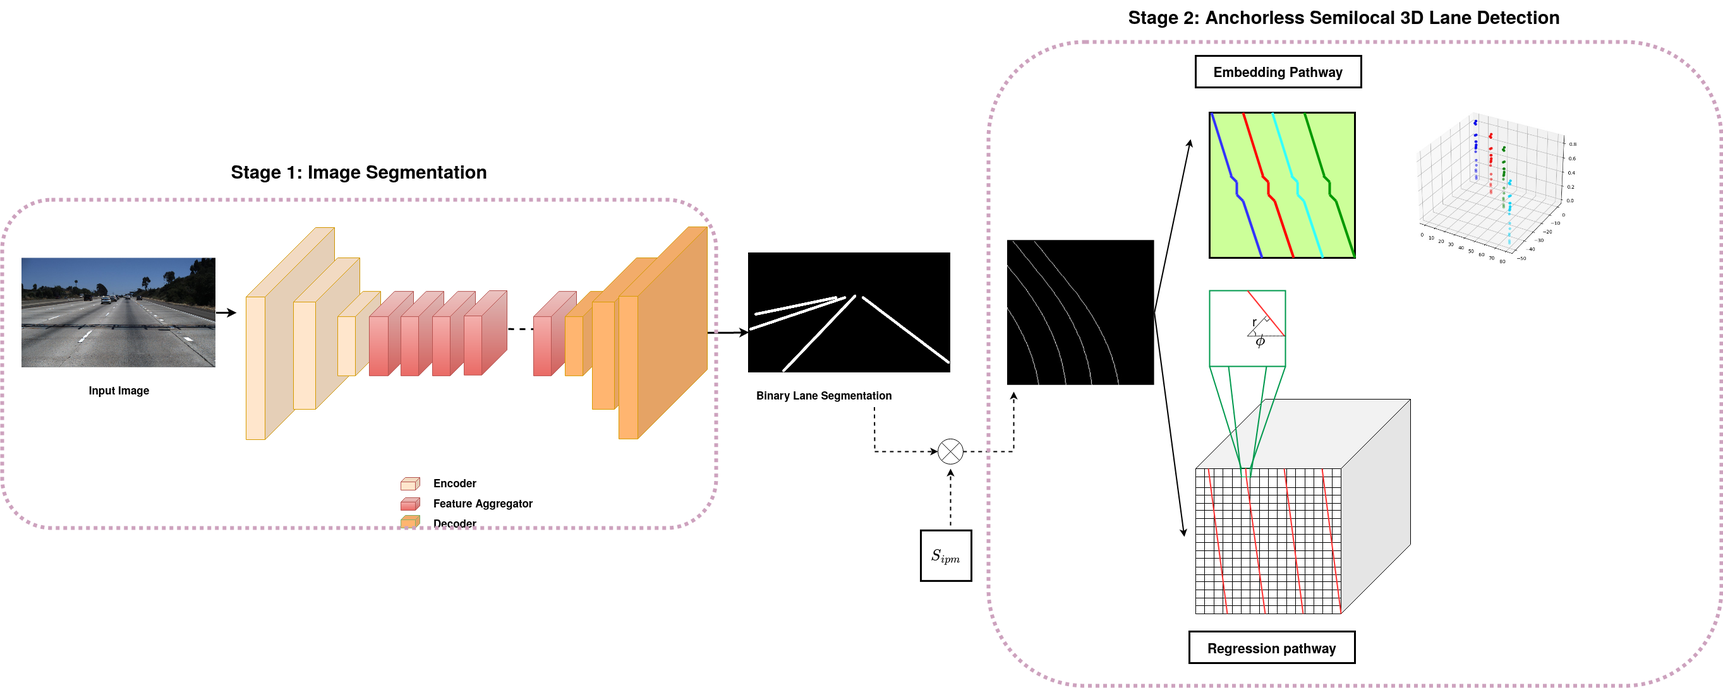
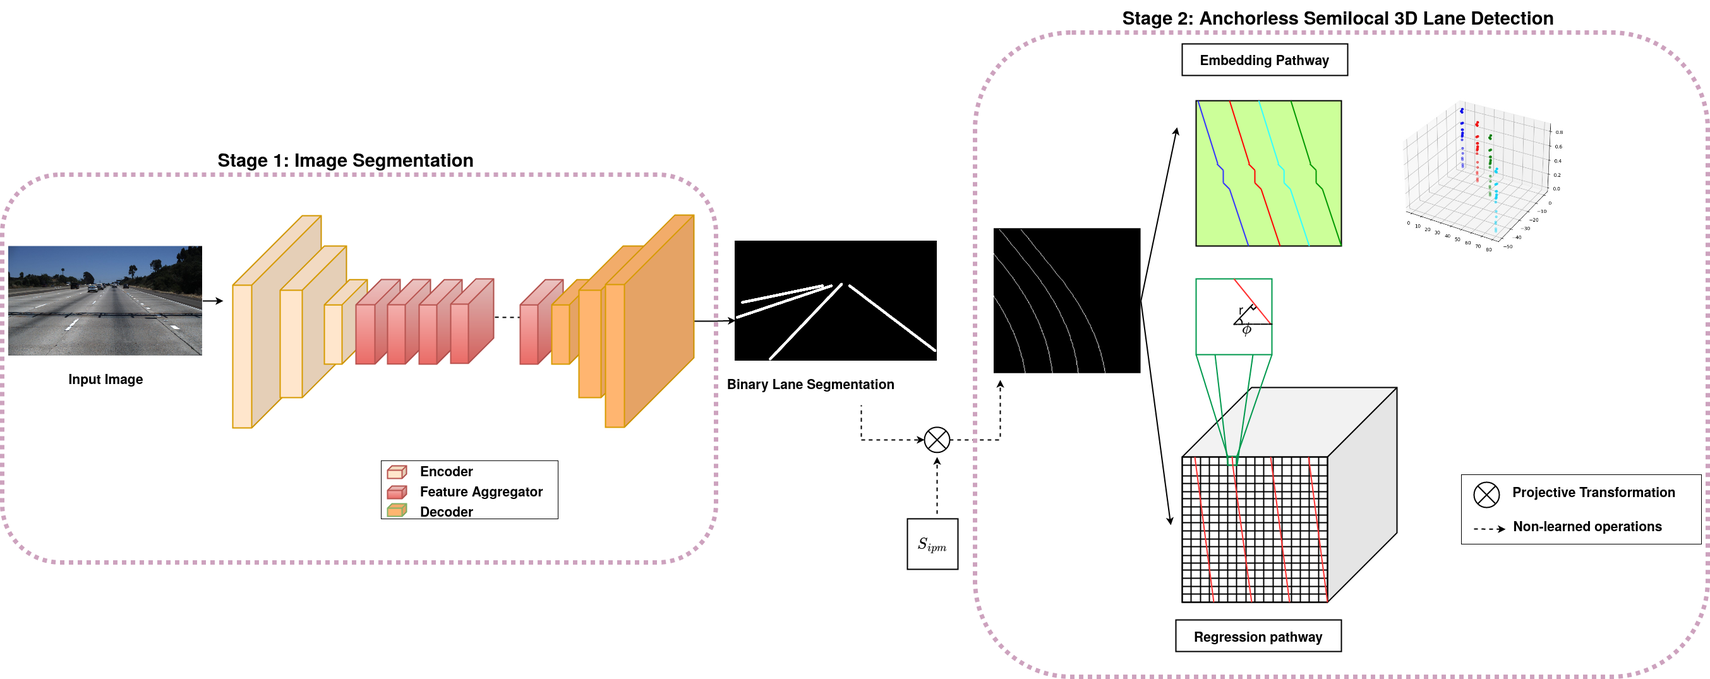
proposed 3D lane arch- methodology

diff --git a/chapters/ch03_related_work.tex b/chapters/ch03_related_work.tex
@@ -41,9 +41,9 @@ Even after the vast research in the field of end-to-end autonomous driving we ar
     
     By definition both auxiliary learning and multitask learning is same, in both the cases you are learning for multiple tasks by sharing the feature representation thus utilizing the training signals from related tasks, the only difference is that in auxiliary learning the other tasks are non operational with respect to the main task. The auxiliary task is general trained on more annotated data to act as a regularizer for the main task. 
     
-    In Autonomous driving, multi-task learning or auxiliary learning plays a very important role. For example if we talk about a scenario where a car is driving on a busy street. So, for an autonomous car to make decision in this scenario we need to learn for tasks like road sign detection, object in closest path, curbs, moving objects, traffic lights and more. Some of these tasks share some correlation and to exploit that we need to learn them together. Multitask learning or auxiliary learning faces a lot of challenges and difficulties like we need to select a unified feature extractor for all the tasks \cite{DBLP:journals/corr/abs-2108-11353}, choosing the appropriate achitecture for a multitask system followed up by which parts of the network should be share by the which tasks \cite {Liu_2020_ACCV} \cite{ruder2018latent} \cite{DBLP:journals/corr/abs-1904-02920}, which tasks needs to chosen for multitask learning \cite{DBLP:journals/corr/abs-2110-07301} \cite{DBLP:journals/corr/abs-1904-04153}, how to jointly train multitasks such training signals from other tasks helps main task \cite{DBLP:journals/corr/abs-1903-12117} \cite{DBLP:journals/corr/abs-2007-06889} \cite{DBLP:journals/corr/abs-2001-06782} \cite{Guo_2018_ECCV}, balancing the losses for optimizing various tasks such that it can enhance the efficiency of the main task \cite{DBLP:journals/corr/abs-1904-08492} \cite{pmlr-v80-chen18a} \cite{du2020adapting}. So all of these challenges are in itself a separate area of research in machine learning. 
+    In Autonomous driving, multi-task learning or auxiliary learning plays a very important role. For example if we talk about a scenario where a car is driving on a busy street. So, for an autonomous car to make decision in this scenario we need to learn for tasks like road sign detection, object in closest path, curbs, moving objects, traffic lights and more. Some of these tasks share some correlation and to exploit that we need to learn them together. Multitask learning or auxiliary learning faces a lot of challenges and difficulties like we need to select a unified feature extractor for all the tasks \cite{DBLP:journals/corr/abs-2108-11353}, choosing the appropriate architecture for a multitask system followed up by which parts of the network should be share by the which tasks \cite {Liu_2020_ACCV} \cite{ruder2018latent} \cite{DBLP:journals/corr/abs-1904-02920}, which tasks needs to chosen for multitask learning \cite{DBLP:journals/corr/abs-2110-07301} \cite{DBLP:journals/corr/abs-1904-04153}, how to jointly train multitasks such training signals from other tasks helps main task \cite{DBLP:journals/corr/abs-1903-12117} \cite{DBLP:journals/corr/abs-2007-06889} \cite{DBLP:journals/corr/abs-2001-06782} \cite{Guo_2018_ECCV}, balancing the losses for optimizing various tasks such that it can enhance the efficiency of the main task \cite{DBLP:journals/corr/abs-1904-08492} \cite{pmlr-v80-chen18a} \cite{du2020adapting}. So all of these challenges are in itself a separate area of research in machine learning. 
     
-    In \cite{DBLP:journals/corr/abs-1805-06334} semantic segmentation is carried out where as prediction of time and weather is used as auxiliary tasks. \cite{teichmann2018multinet}, \cite{7785137} conducted joint learning of semantic segmentation and depth estimation as both task share some meaningful information, have shown that learning depth estimation has auxiliary task has leads to increase in performance. \cite{yang2018endtoend} jointly learned for prediction of driving commands in terms of steering angle and speed in end-to-end fashion. \cite{Wang2019EndtoEndSU} explored to predict the driving commands with object detection and semantic segmentation as auxiliary tasks. \cite{9090850} proposed a lightweight based network using lidar as main sensor to predict the occlusion free road segmentation, road ground height estimation and road topology recognition with keeping later two as auxiliary tasks. \cite{teichmann2018multinet} jointly learned classification, detection and semantic segmentation of scene objects for semantic reasoning using a unified feature extractor and task specific decoders. In \cite{9523129} driving commands are predicted along with monocular depth estimation, semantic segmentation and traffic light state as auxiliary tasks. 
+    In \cite{DBLP:journals/corr/abs-1805-06334} semantic segmentation is carried out where as prediction of time and weather is used as auxiliary tasks. \cite{teichmann2018multinet}, \cite{7785137} conducted joint learning of semantic segmentation and depth estimation as both task share some meaningful information, have shown that learning depth estimation has auxiliary task has leads to increase in performance. \cite{yang2018endtoend} jointly learned for prediction of driving commands in terms of steering angle and speed in end-to-end fashion. \cite{Wang2019EndtoEndSU} explored to predict the driving commands with object detection and semantic segmentation as auxiliary tasks. \cite{9090850} proposed a lightweight based network using Lidar as main sensor to predict the occlusion free road segmentation, road ground height estimation and road topology recognition with keeping later two as auxiliary tasks. \cite{teichmann2018multinet} jointly learned classification, detection and semantic segmentation of scene objects for semantic reasoning using a unified feature extractor and task specific decoders. In \cite{9523129} driving commands are predicted along with monocular depth estimation, semantic segmentation and traffic light state as auxiliary tasks. 
     
     Along with inducing inductive bias and inducing task related information which is missing in the main task multi-task learning also helps in creating interpret-able solutions. Any failure in the main task can be validated via the output from sub-tasks and vice versa. So multitask learning is a main component of end-to-end autonomous driving or autonomous driving.  
 
@@ -54,7 +54,7 @@ Even after the vast research in the field of end-to-end autonomous driving we ar
         \subsection{Monocular 2D Lane Detection}
         Traditionally lane detection was carried out using hand crafted features. Those approaches have many drawbacks like lack of robustness, only applicable in easy driving scenarios. Recently deep learning techniques has been employed to remove the reliance on the hand crafted features and to extract those features in an end-to-end fashion. 2D lane detection requires to capture rich context from the scene, as in most of the scenarios we need to face challenging situations where there are no lane markings, lanes markings are occluded by the objects or extreme lightning and weather conditions. Thus thus we need to counter the biggest problem of missing visual cues in the scene, maintaining the real time applicability of the solution.
         
-        The task of lane detection via deep learning is generally considered a dense prediction task of semantic segmentation, where each pixel in an image define a label whether it is a lane or not. Semantic segmentation in general is considered as dense prediction task, so to facilitate that we need to increase the effective receptive field. To Support that \cite{DBLP:journals/corr/abs-1712-06080} proppsed a feature enhancement module which can be used flexibly after the initial feature encoding in any model and shown to be faster than Deep Lab V3 \cite{DBLP:journals/corr/ChenPSA17} and lesser number of parameters. Following the previous approach RESA \cite{DBLP:journals/corr/abs-2008-13719} proposed a better feature enhancement module and at the stake of less computational cost, resulting in 10 times faster than the predecessor. 
+        The task of lane detection via deep learning is generally considered a dense prediction task of semantic segmentation, where each pixel in an image define a label whether it is a lane or not. Semantic segmentation in general is considered as dense prediction task, so to facilitate that we need to increase the effective receptive field. To Support that \cite{DBLP:journals/corr/abs-1712-06080} proposed a feature enhancement module which can be used flexibly after the initial feature encoding in any model and shown to be faster than Deep Lab V3 \cite{DBLP:journals/corr/ChenPSA17} and lesser number of parameters. Following the previous approach RESA \cite{DBLP:journals/corr/abs-2008-13719} proposed a better feature enhancement module and at the stake of less computational cost, resulting in 10 times faster than the predecessor. 
         
         As the task of semantic segmentation involves around predicting the accurate class of the pixel, approaches like \cite{https://doi.org/10.48550/arxiv.2010.12035}, \cite{inbook} have shown that predicting a semantic mask does not solve the problem of defining shapes of the lane lines, therefore anchor based and row-wise detection based 2d lane detection methods were proposed.
         
@@ -94,7 +94,7 @@ The most basic way to lift the 2d lane lines to 3D is using Inverse perspective 
     \end{figure}
 
 
-The most seminal paper in the field of 3D lane detection is \cite{DBLP:journals/corr/abs-1811-10203} like \cite{DBLP:journals/corr/abs-1802-05591} they have not taken any flat ground assumption, the architecture in the approach is basically divided into two pathways one for predicting the transformation from image plane to 3D road plane. This pathway predicts camera height and pitch from the road which basically determines the transformation. The other pathway is responsible for converting monocular image from image space to Birds Eye VIew (BEV) space, where they have employed an anchor based lane prediction head. The main limitation of this approach is that it can handle only scenarios with parallel lane-lines and fail at the scenarios when lane-lines are perpendicular to the ego vehicle. 
+The most seminal paper in the field of 3D lane detection is \cite{DBLP:journals/corr/abs-1811-10203} like \cite{DBLP:journals/corr/abs-1802-05591} they have not taken any flat ground assumption, the architecture in the approach is basically divided into two pathways one for predicting the transformation from image plane to 3D road plane. This pathway predicts camera height and pitch from the road which basically determines the transformation. The other pathway is responsible for converting monocular image from image space to Bird-Eye-View (BEV) space, where they have employed an anchor based lane prediction head. The main limitation of this approach is that it can handle only scenarios with parallel lane-lines and fail at the scenarios when lane-lines are perpendicular to the ego vehicle. 
 
 \begin{figure}[h]
     \centering
@@ -137,7 +137,7 @@ Following the previous work \cite{9506296} proposed a dual attention pipeline fo
     \caption{Dual attention mechanism  proposed by  \cite{9506296}}
     \end{figure}
 
-Following the footsteps of \cite{DBLP:journals/corr/abs-2011-01535}, \cite{yan2022once} proposed a lane detector where lanes are not represented as anchors. Instead of using BEV for encoding 3d lane information the scene their method relies on the 2D camera image and its intrinsics to detect the 3D lane line points. Utilizing the power of anchor-less based 3d lane detectors that they are able to detect different lane topology, they have used a dual branched pipeline where one branch is used for detecting binary lanes from the encoded features from a input image. For the backbone they have used the SegFormer \cite{DBLP:journals/corr/abs-2105-15203}. The second paths regresses directly the 2d coordinates of the lane points along with the depth associated with them. The predicted coordinates are in camera image plane which can be taken to real world via using camera geometry. For generating the ground-truth they have proposed an automatic annotation pipeline using lidar and camera as major sensors.
+Following the footsteps of \cite{DBLP:journals/corr/abs-2011-01535}, \cite{yan2022once} proposed a lane detector where lanes are not represented as anchors. Instead of using BEV for encoding 3d lane information the scene their method relies on the 2D camera image and its intrinsics to detect the 3D lane line points. Utilizing the power of anchor-less based 3d lane detectors that they are able to detect different lane topology, they have used a dual branched pipeline where one branch is used for detecting binary lanes from the encoded features from a input image. For the backbone they have used the SegFormer \cite{DBLP:journals/corr/abs-2105-15203}. The second paths regresses directly the 2d coordinates of the lane points along with the depth associated with them. The predicted coordinates are in camera image plane which can be taken to real world via using camera geometry. For generating the ground-truth they have proposed an automatic annotation pipeline using Lidar and camera as major sensors.
 
 \begin{figure}[h]
     \centering
@@ -151,13 +151,13 @@ In this work we propose to take the best of the both the worlds and counter the 
 This section introduces the reader to popular 2D and 3D public lane detection datasets used for this work and by the research conducted in the respective field. 
 
 \subsubsection{2D Lane Detection Datasets}
-As a lot of work has been conducted in the field of 2d lane detection therefore a lot of 2d lane detection data-sets exits. But in this work we will discuss only the prominent ones which are generally used by the 3D lane detection approaches for training the intermediate part of their pipline. \cite{Tusimple} TuSimple is one of the most basic datasets used by the 2d lane detection approaches to validate their pipeline. The dataset consists of driving scenarios on highway with stable lightning conditions. Where as CULane \cite{pan2018SCNN} is quite challenging dataset with varying driving conditions. The dataset consists of 55 hours of driving in crowded streets of beijing with scenarios ranging from no lane marking, crowded streets, sun glares, night, intersections, curves and more. The only drawback of this dataset is that it does not contain scenes with varying weather conditions.
+As a lot of work has been conducted in the field of 2d lane detection therefore a lot of 2d lane detection data-sets exits. But in this work we will discuss only the prominent ones which are generally used by the 3D lane detection approaches for training the intermediate part of their pipline. \cite{Tusimple} TuSimple is one of the most basic datasets used by the 2d lane detection approaches to validate their pipeline. The dataset consists of driving scenarios on highway with stable lightning conditions. Where as CULane \cite{pan2018SCNN} is quite challenging dataset with varying driving conditions. The dataset consists of 55 hours of driving in crowded streets of Beijing with scenarios ranging from no lane marking, crowded streets, sun glares, night, intersections, curves and more. The only drawback of this dataset is that it does not contain scenes with varying weather conditions.
 
 \subsubsection{3D Lane Detection Datasets}
-Apollo Synthetic datset\cite{guo2020gen} is one of the first and largest public 3d lane detection dataset. As the name suggests there exists annotations for 3d lane line points in simulation. The dataset is rendered from the real world maps with three different driving terrains like highway, urban and residential with different lightning conditions depending on the day time. The dataset is composed of real world 3D lane line points, camera pose in terms of camera height and pitch, camera instrinsics, RGB image, dense depth image and semantically segmented image of the scene.
+Apollo Synthetic datset\cite{guo2020gen} is one of the first and largest public 3d lane detection dataset. As the name suggests there exists annotations for 3d lane line points in simulation. The dataset is rendered from the real world maps with three different driving terrains like highway, urban and residential with different lightning conditions depending on the day time. The dataset is composed of real world 3D lane line points, camera pose in terms of camera height and pitch, camera intrinsics, RGB image, dense depth image and semantically segmented image of the scene.
 
-OpenLane \cite{chen2022persformer} is one of the first real world 3d lane datasets. The dataset is basically generated from the Waymo open datset \cite{Sun_2020_CVPR}, where they have provided along with input images of the scene, the closest in path object infromation and 3D lane annotations. In addition to all the preliminary driving scenarios the dataset also contains dirving scenarios with complex topologies like intersections and roundabouts. Data also contains annotations for the opposite lanes if there exist no curbs in the middle of the lane. 
+OpenLane \cite{chen2022persformer} is one of the first real world 3d lane datasets. The dataset is basically generated from the Waymo open datset \cite{Sun_2020_CVPR}, where they have provided along with input images of the scene, the closest in path object information and 3D lane annotations. In addition to all the preliminary driving scenarios the dataset also contains diving scenarios with complex topologies like intersections and roundabouts. Data also contains annotations for the opposite lanes if there exist no curbs in the middle of the lane. 
 
-ONCE-3D Lanes \cite{yan2022once} is also a real world 3D lane detection dataset, the dataset is constructed from ONCE\cite{mao2021one}. The dataset consits of 3D annotations of lane line points, RGB image and the camera parameters of every frame in a driving scenarios. This dataset is collected in different geographical locations in China like highways, bridges, suburbs, tunnels with different weather and lightning conditions.
+ONCE-3D Lanes \cite{yan2022once} is also a real world 3D lane detection dataset, the dataset is constructed from ONCE\cite{mao2021one}. The dataset consists of 3D annotations of lane line points, RGB image and the camera parameters of every frame in a driving scenarios. This dataset is collected in different geographical locations in China like highways, bridges, suburbs, tunnels with different weather and lightning conditions.
 
 \end{document}

diff --git a/chapters/ch02_theoretical_background.tex b/chapters/ch02_theoretical_background.tex
@@ -23,7 +23,7 @@ $\left(\begin{array}{c}X \\ Y \\ Z \\ 1 \end{array}\right) \rightarrow \left(\be
 
 \end{center}
     
-The above equation can be represented as  $X^{‘} = PX $. Where X is the real world point represented in the homogenous coordinates as $(X, Y, Z, 1)^{T}$ and P is a $3x4$ homogeneous matrix called camera projection matrix. P in this case can be rewritten as $diag(f,f,1) [I|0]$, where diag(f,f,1) is a $3x3$ matrix and $[I|0]$ is a zero column vector. 
+The above equation can be represented as  $X^{‘} = PX $. Where X is the real world point represented in the homogeneous coordinates as $(X, Y, Z, 1)^{T}$ and P is a $3x4$ homogeneous matrix called camera projection matrix. P in this case can be rewritten as $diag(f,f,1) [I|0]$, where diag(f,f,1) is a $3x3$ matrix and $[I|0]$ is a zero column vector. 
 Generally the origin of coordinated is not at the optical center, there exists some offset. So the mapping in that case will change: 
 \begin{center}
 $(X,Y,Z)^{T} \rightarrow (fX/Z + p_{x}, fY/Z + p_{y})^{T}$
@@ -47,7 +47,7 @@ And $ K =  \begin{bmatrix}f & &p_{x} \\  &f &p_{y}  \\   & &1    \end{bmatrix}$
 $K =  \begin{bmatrix} \alpha_{x} & s &c_{x} \\  0 & \alpha_{y} & c_{y}  \\  0  &0 &1 \end{bmatrix}$
     \end{center}
     
-    So we can summarize this mapping from real world to camera plane, first the real world coordinates are transferred to camera coordinate frame via extrinsic matrix and the resulting points in camera coordinate frames are projected to image plane using camera matrix or instrinsic matrix. 
+    So we can summarize this mapping from real world to camera plane, first the real world coordinates are transferred to camera coordinate frame via extrinsic matrix and the resulting points in camera coordinate frames are projected to image plane using camera matrix or intrinsic matrix. 
         \begin{figure}[h]
     \centering
     \includegraphics[width=8cm, height =4cm]{images/extrinsic_intrinsic.png}
@@ -59,7 +59,7 @@ $K =  \begin{bmatrix} \alpha_{x} & s &c_{x} \\  0 & \alpha_{y} & c_{y}  \\  0  &
     \section{Inverse Perspective Mapping (IPM)}
      In computer vision inverse perspective transformation can be seen as a scenario where we obtain birds-eye-view image of the scene using front-facing camera image. To understand how the inverse perspective mapping we need to build some basic concepts about camera geometry which we discussed in the last section, homography and 2D perspective transformation. In autonomous driving IPM can be seen as an alternative way to feed the network with extra information about scene and it is explored in tasks like lane detection, BEV segmentation, path planning and more. 
      
-     By definition homography is the way we can transform one projective plane to another plane using a transformation matrix called \textbf{H} and in this work we have used homography based IPM to take the front facing camera image to BEV. These transformation generally comes under the category of perspective transformation. Popularly there exists two types of transformations in projective geometry called as affine and perspective transformation. Example of affine transformation are translation, rotation, dilation. Affine transformations generally maps lines to lines, points to points and prallell lines stay parallel. Where as in the case of perspective transformation can hold only geometrical properties like will remain line and it retains col-linearity of points. Under perspective transformation two parallel lines can not stay parallel and they generally meet at a point at infinity which is called as vanishing point. The pin hole camera model that we have discussed above follows the principal of perspecitve transformation of a real world point to the camera image plane and the camera matrix that we have discussed is basically a homography matrix. Generally this camera matrix is obtained via association of 4 or more same points in the multiple images taken from same camera and this task is called camera calibration. 
+     By definition homography is the way we can transform one projective plane to another plane using a transformation matrix called \textbf{H} and in this work we have used homography based IPM to take the front facing camera image to BEV. These transformation generally comes under the category of perspective transformation. Popularly there exists two types of transformations in projective geometry called as affine and perspective transformation. Example of affine transformation are translation, rotation, dilation. Affine transformations generally maps lines to lines, points to points and parallel lines stay parallel. Where as in the case of perspective transformation can hold only geometrical properties like will remain line and it retains col-linearity of points. Under perspective transformation two parallel lines can not stay parallel and they generally meet at a point at infinity which is called as vanishing point. The pin hole camera model that we have discussed above follows the principal of perspective transformation of a real world point to the camera image plane and the camera matrix that we have discussed is basically a homography matrix. Generally this camera matrix is obtained via association of 4 or more same points in the multiple images taken from same camera and this task is called camera calibration. 
      
             \begin{figure}[h]
     \centering
@@ -72,7 +72,7 @@ $K =  \begin{bmatrix} \alpha_{x} & s &c_{x} \\  0 & \alpha_{y} & c_{y}  \\  0  &
      \textbf{Step: A Define a top view region \newline} 
      First step for IPM is to define a top view region and we want this plane to be consistent with the moving vehicle. The origin of top view region plane is at the top left corner. Generally we start with deciding the width and height of this plane this defining the resolution per pixel. 
      
-     Let $(ipm_{width}, ipm_{height} = 256, 416)$ and top view region edge points to be $[-10, 103], [10, 103], [-10, 3], [10, 3]$. Similary the IPM boundry points can be represented as $[0, 0],
+     Let $(ipm_{width}, ipm_{height} = 256, 416)$ and top view region edge points to be $[-10, 103], [10, 103], [-10, 3], [10, 3]$. Similarly the IPM boundry points can be represented as $[0, 0],
                                                               [ipm_{width}, 0],
                                                               [0, ipm_{height}-1],
                                                               [ipm_{width}, ipm_{height}]$
@@ -127,7 +127,7 @@ $K =  \begin{bmatrix} \alpha_{x} & s &c_{x} \\  0 & \alpha_{y} & c_{y}  \\  0  &
     
     The Hough transform is a feature extraction technique used in image analysis, computer vision, and digital image processing. The purpose of the technique is to find imperfect instances of objects within a certain class of shapes by a voting procedure. \footnote{\url{https://en.wikipedia.org/wiki/Hough_transform}}
     
-    Generally Hough transform is used for detecting lines in an image but it is also applicable to detecting circles and ellipsoidal curves in an image. Hough transform is applied on images after edge detection is performed on it. Edge detection is a technique which identifies boundaries or edges of certain objects in the image on the basis of change in brightness across the pixels. Let's assume we are trying to find lines in an image, in that sense edges are sequence of pixels with certain slope and intercepts. To detect lines in this image we need to loop through all the pixels with same intercept and slope, this is where Hough transforms comes handy. In simple words Hough transform helps to find lines by giving weightage to the pixels that are already in a line. 
+    Generally Hough transform is used for detecting lines in an image but it is also applicable to detecting circles and ellipsoidal curves in an image. Hough transform is applied on images after edge detection is performed on it. Edge detection is a technique which identifies boundaries or edges of certain objects in the image on the basis of change in brightness across the pixels. Let's assume we are trying to find lines in an image, in that sense edges are sequence of pixels with certain slope and intercepts. To detect lines in this image we need to loop through all the pixels with same intercept and slope, this is where Hough transforms comes handy. In simple words Hough transform helps to find lines by giving weight-age to the pixels that are already in a line. 
     
     Before indulging into the workings of the Hough transform, we need to understand the basic idea how the Hough transform works. A line can be represented by minimal two points and it has an intercept and a slope. Similarly a line can also be represented by a single point in mc space.
     
@@ -137,7 +137,7 @@ $K =  \begin{bmatrix} \alpha_{x} & s &c_{x} \\  0 & \alpha_{y} & c_{y}  \\  0  &
     \caption{Representation of a line}
     \end{figure}
     
-    Similarly we can say that a point in cartesian space can be represented as infinite lines in mc space as infinite lines can pass from a point in cartesian space. So, Hough transform does the same converting points in cartesian space to lines in mc space. Therefore for an edge image, where the pixels are non black we can draw lines in mc space. Some lines will intersect at a particular point and that intersection point is this slope and intercept of those lines. 
+    Similarly we can say that a point in Cartesian space can be represented as infinite lines in mc space as infinite lines can pass from a point in Cartesian space. So, Hough transform does the same converting points in Cartesian space to lines in mc space. Therefore for an edge image, where the pixels are non black we can draw lines in mc space. Some lines will intersect at a particular point and that intersection point is this slope and intercept of those lines. 
     
                     \begin{figure}[h]
     \centering
@@ -145,7 +145,7 @@ $K =  \begin{bmatrix} \alpha_{x} & s &c_{x} \\  0 & \alpha_{y} & c_{y}  \\  0  &
     \caption{Representation of a point}
     \end{figure}
     
-    From the pixels points to line in mc space, when more than one lines intersects in mc space it means that those pixels belong to the same line in cartesian space and that line's parameter is represented by the intersecting point. 
+    From the pixels points to line in mc space, when more than one lines intersects in mc space it means that those pixels belong to the same line in Cartesian space and that line's parameter is represented by the intersecting point. 
     
                  \begin{figure}[h]
     \centering
@@ -217,7 +217,7 @@ $K =  \begin{bmatrix} \alpha_{x} & s &c_{x} \\  0 & \alpha_{y} & c_{y}  \\  0  &
       \begin{figure}[h]
     \centering
     \includegraphics[width=10cm, height =2cm]{images/cnn_case3.png}
-    \caption{$3x3$ kenel convolves over $5x5$ input with $1x1$ padding and unit strides \cite{https://doi.org/10.48550/arxiv.1603.07285}}
+    \caption{$3x3$ kernel convolves over $5x5$ input with $1x1$ padding and unit strides \cite{https://doi.org/10.48550/arxiv.1603.07285}}
     \end{figure}
     
     
@@ -259,15 +259,15 @@ $K =  \begin{bmatrix} \alpha_{x} & s &c_{x} \\  0 & \alpha_{y} & c_{y}  \\  0  &
    \end{center}
     
 
-    \section{Scene Understaing via Semantic Segmentation}
+    \section{Scene Understating via Semantic Segmentation}
     In this section we will briefly introduce the task of semantic segmentation with respect to the deep learning side of the problem and the role it plays in scene understanding in autonomous driving. Semantic segmentation is a dense prediction task where we predict label for each pixel in the image, unlike classification where we assign one label for the whole image.
     
-    In simple words semantic segmentaion performs three steps: \newline
+    In simple words semantic segmentation performs three steps: \newline
     1. Classification : classify an object in the image  \newline
     2. Localization : find the location of the object in the image \newline
     3. Segmentation : divide the pixels into groups and obtaining a mask around those pixels groups 
     
-     When CNN's are used for object recognition task they decrease the size of the feature maps from initial layer to deeper layers and semantic segmentation is a dense prediction task, means the spatial size of the output should be same as the input, it makes this task a little bit challenging. In most of the cases direct upsampling of the mid level feature maps leads to coarse results and thus to obtain fine results we need to increase the effective receptive field which is generally done via artous convolutions which enhance the receptive field. 
+     When CNN's are used for object recognition task they decrease the size of the feature maps from initial layer to deeper layers and semantic segmentation is a dense prediction task, means the spatial size of the output should be same as the input, it makes this task a little bit challenging. In most of the cases direct up-sampling of the mid level feature maps leads to coarse results and thus to obtain fine results we need to increase the effective receptive field which is generally done via artous convolutions which enhance the receptive field. 
      
      There exists three variants segmentation: \newline
      1. Semantic Segmentation \newline

diff --git a/chapters/ch04_3dlanedetection.tex b/chapters/ch04_3dlanedetection.tex
@@ -15,7 +15,7 @@
     \caption{2D Binary Lane segmentation Pipeline}
     \end{figure}
         
-        Figure 4.4 represents the pseudo architecture for the 2D binary lane detection module. This is an auto-encoder based pipeline where we have used \ResNet{DBLP:journals/corr/HeZRS15} based network for initial feature encoding and later utilizing the feature aggregation modules proposed by SCNN\cite{pan2018SCNN} and RESA\cite{DBLP:journals/corr/abs-2008-13719}. In the end we have experimented with two types of decoders for upsampling the extracted features as it is a dense prediction task we need the output to be of the same spatial size as input. Initially we used the a simple decoder propsed by \SCNN{pan2018SCNN} which uses bi-linear interpolation to upsample the feature maps, later we experimented with the Bilateral Upsampling Decoder (BUSD) proposed by RESA\cite{DBLP:journals/corr/abs-2008-13719}. So we trained our 2d binary lane segmentation pipeline using mix and match of the above mentioned modules. 
+        Figure 4.4 represents the pseudo architecture for the 2D binary lane detection module. This is an auto-encoder based pipeline where we have used \ResNet{DBLP:journals/corr/HeZRS15} based network for initial feature encoding and later utilizing the feature aggregation modules proposed by SCNN\cite{pan2018SCNN} and RESA\cite{DBLP:journals/corr/abs-2008-13719}. In the end we have experimented with two types of decoders for upsampling the extracted features as it is a dense prediction task we need the output to be of the same spatial size as input. Initially we used the a simple decoder proposed by \SCNN{pan2018SCNN} which uses bi-linear interpolation to upsample the feature maps, later we experimented with the Bilateral Upsampling Decoder (BUSD) proposed by RESA\cite{DBLP:journals/corr/abs-2008-13719}. So we trained our 2d binary lane segmentation pipeline using mix and match of the above mentioned modules. 
         
         
         \subsection{Datasets Used}
@@ -90,25 +90,25 @@
     \caption{Network architecture of Gen-LaneNet \cite{guo2020gen}}
     \end{figure}
          
-         Here authors have represented the 3D lane lines in the form of anchors and have utilized this representation to predict 3D lane line points by using a dual stage network. Authors have chosen this dual pathway approach on the fact that encoding 3D lane geometry is a different task to encoding features from image.
-         The first stage is responsible for extracting features from the input monocular image and perform binary segmentation task on the image to obtain binary lane segmentation mask. This obtained binary lane segmentation mask is this used as an input for the next stage of the pipeline which is responsible for predicting the 3D lane line points in the form of anchor based representation. As described in section 4.2.2 each anchor defines a 3D lane line by 3*K values as ($\overline{x}^{i}_{j},z^{i}_{j},v^{i}_{j}$)$^{K}_{j=1}$. The ground truth target lane anchors are generated by taking the 3D lane line points which are in ego vehicle coordinate frame to virtual top view. 
+         Here authors have represented the 3D lane lines in the form of anchors and have utilized this representation to predict 3D lane line points by using a dual stage network. Authors have chosen this dual pathway approach on the fact that encoding 3D lane geometry is a different task to encoding features from image. Therefore, instead of predicting camera height and camera pitch the ground-truth values are used for obtaining all the geometric transformations. 
+         The first stage is responsible for extracting features from the input monocular image and perform binary segmentation task on the image to obtain binary lane segmentation mask. This obtained binary lane segmentation mask is this used as an input for the next stage of the pipeline which is responsible for predicting the 3D lane line points in the form of anchor based representation. As described in section 4.2.2 each anchor defines a 3D lane line by 3*K values as ($\overline{x}^{i}_{j},z^{i}_{j},v^{i}_{j}$)$^{K}_{j=1}$. The ground truth target lane anchors are generated by taking the 3D lane line points which are in ego vehicle coordinate frame to virtual top view.
          
-         The output from the image segmentation stage is processed by a top view segmentation encoder which uses projective transformation and project it into top-view which are further processed by a series of convolution layers to encode features from top view binary segmentation. After that a lane prediction head predicts 3D lane line points in terms of anchor representation. The predicted anchors are in top-view which can be further transformed into 3D lane line points in ego-vehicle frame by using geometric transformation. This dual stage network makes the pipeline flexible in terms of using complex binary segmentation solutions and make it affordable as we don't need more real world 3D lane lines labels in various driving scenarios. Despite 
+         The output from the image segmentation stage is processed by a top view segmentation encoder which uses projective transformation and project it into top-view which are further processed by a series of convolution layers to encode features from top view binary segmentation. After that a lane prediction head predicts 3D lane line points in terms of anchor representation. The predicted anchors are in top-view which can be further transformed into 3D lane line points in ego-vehicle frame by using geometric transformation. This dual stage network makes the pipeline flexible in terms of using complex binary segmentation solutions and make it affordable as we don't need more real world 3D lane lines labels in various driving scenarios.
         
         \subsection{Proposed Architecture: 3D Lane Detection}
         
-        Anchor based 3D lane detection approaches face similar challenges as anchor based 2D lane detection. Therefore it is not able to generalize well with different lane topologies. Utilizing the idea of dual stage network proposed by \cite{guo2020gen} and anchors less semi-local 3D lane detection approach proposed by \cite{}, we proposed an semi-local anchor-less dual stage network for obtaining 3D lane line points.
+        Anchor based 3D lane detection approaches face similar challenges as anchor based 2D lane detection. Therefore it is not able to generalize well with different lane topologies. Utilizing the idea of dual stage network proposed by \cite{guo2020gen} and anchors less semi-local 3D lane detection approach proposed by \cite{DBLP:journals/corr/abs-2011-01535}, we proposed an semi-local anchor-less dual stage network for obtaining 3D lane line points.
         
         \begin{figure}[h]
     \centering
     \includegraphics[width=\textwidth, height=7cm]{images/3DlaneAUXNet.png}
-    \caption{Lane anchor representation \cite{guo2020gen}}
+    \caption{Dual stage semi-local anchor less 3D lane detection pipeline  \cite{guo2020gen}}
     \end{figure}
         
-        
-        \subsubsection{Stage 1: Image Segmentation}
-        \subsubsection{Stage 2: Semi-Local 3D Lane Detection}
-    
+     As per the original idea of dual stage architecture proposed by \cite{guo2020gen}, the first stage is responsible for extracting features from a monocular image and obtaining binary lane segmentation mask as an intermediate output. This binary segmentation mask is taken into birds eye view using projective transformation. Before feeding the top-view binary lane segmentation mask into the second stage of the network it is normalized. Second stage of the network is divided into two pathways named as regression pathway and embedding pathway. Regression pathway is responsible for extracting geometric information for 3D lane curves. Inspired from \cite{DBLP:journals/corr/abs-2011-01535} we have used semi-local tile representation and predict the full lane curve by decimating the whole lane curve into small lane segments and regress geometric parameters to represent that lane curve locally. To facilitate that the resulting bird-eye-view feature map is spatially divided into grids $G_{WxH}$ containing $WxH$ non overlapping patches which are also called tiles. Assuming that from every tile there passes a line segment and approximating that line segment as a straight line, the regression pathway regresses per tile $g_{ij}$ three parameters ie. relative distance to tile center $\widetilde{r_{ij}}$, line angle $\widetilde{\phi_{ij}}$ and height offset $\triangle \widetilde{Z_{ij}}$. Instead of flattening the feature map and employ fully connected layers to predict regression targets for each tile, the output from the stage one is passed through a series of convolution layers which are processed in non-overlapping or semi-overlapping way where the kernel stride is set equal to the tile size and in the later case half of the tile size. Such encoding is responsible for regressing the geometric parameters for representing a lane segment per each tile, the spatial size of the output feature map after this encoding is same as $WxH$. Let's assume the spatial size of output birds eye view feature map after first stage is $(416,256)$ and diving this into a grid with each tile of size $(16,16)$, the resulting grid size will be $(26,16)$. Along with this the output size after the feature encoding is $(N, 13, H, W)$, here $(HxW) = (26x16)$ denoting the spatial size of the grid and $13$ denotes the number of channels for representing the tile regression targets which will be more explained in the later sections. Each element in this grid at a particular index along the channel axes represents the regression values for that particular tile. To generate the ground-truth regression targets for  angles and offsets the ground-truth lane points are projected into bird-eye-view and then approximating lane segments which passes through tile as straight lines. For this approximation bird-eye-view projected ground-truth lane points are divided into non overlapping grid and for each tile we have approximated the lane segments as straight lines using Hough transform which was introduced in section 2.3 
+     
+     In the embeddings pathway the normalized birds-eye lane binary segmentation mask is fed to a series of $1x1$ convolution layers which is responsible for learning global lane embeddings, inspired by \cite{DBLP:journals/corr/abs-1802-05591} mean-shift clustering is performed on the learned global lane embedding to complete multiple lane segments to complete lane curves. We learn an embedding vector $f_{ij}$ for each tile and using discriminative push-pull loss inspired from \cite{DBLP:journals/corr/abs-2011-01535} \cite{DBLP:journals/corr/abs-1802-05591} as an objective function to learn the global lane embeddings. Discriminative push-pull loss ensures that the embedding that belong to the same line will stay close in the embedding space whereas embedding for tiles of different lanes will stay far from each other in embedding space. 
+     
     \subsection{Loss Functions}
         (Write in general mentioning the sections which loss functions is used for what)
         
